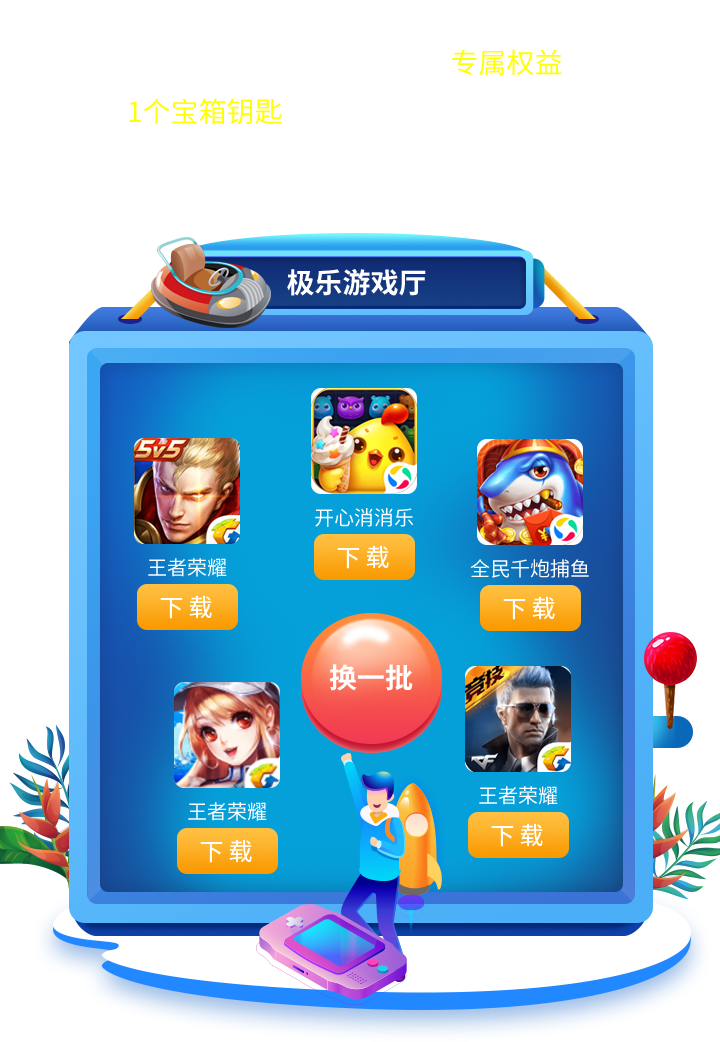
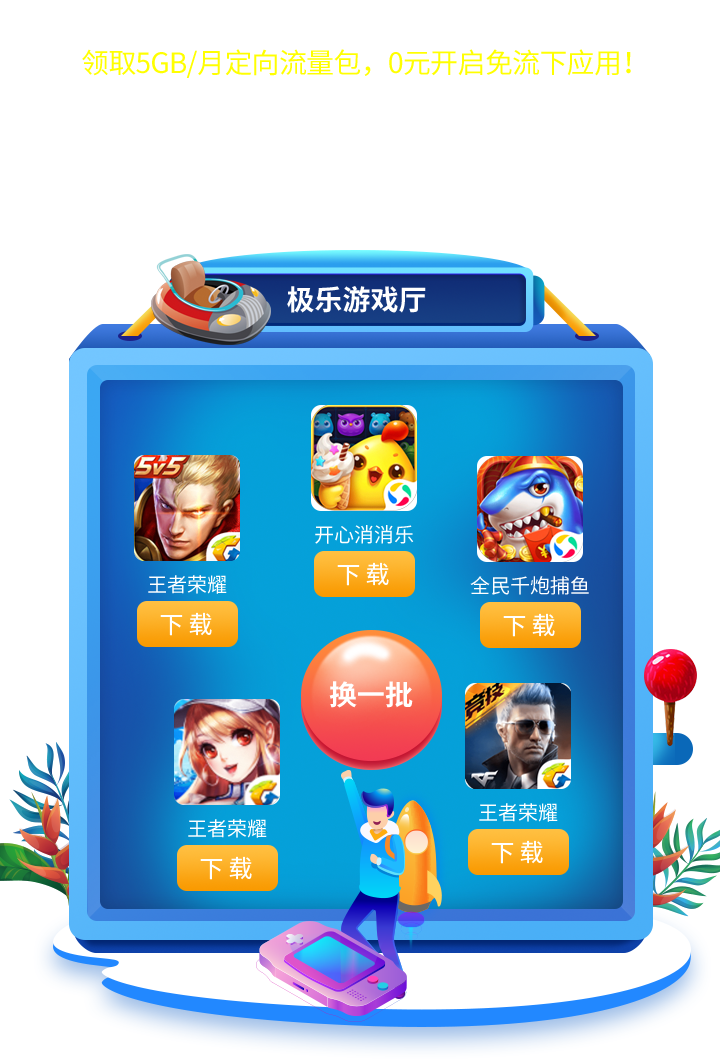
高保修改

diff --git a/src/index.html b/src/index.html
@@ -27,71 +27,15 @@
 			<img src="./assets/img/home-bg.png" class="banner">
 			<span class="lklq-btn">100把钥匙</span>
 		</div>
-		<div class="app-down-list-wrap">
-			<div class="list-1">
-				<div class="btn-baoxiang">开宝箱</div>
-			</div>
-			<div class="list-2">
-				<div class="app-box">
-					<div class="item info">
-						<img src="assets/img/app-icon.png" alt="" class="icon" />
-						<div class="deital">
-							<div class="title">QQ音乐开放权益</div>
-							<div class="sub">
-								QQ音乐
-							</div>
-						</div>
-					</div>
-					<div class="item btn">
-						领取
-					</div>
-				</div>
-			</div>
-			<div class="list-3">
-				<div class="app-box">
-					<div class="item info">
-						<img src="assets/img/app-icon.png" alt="" class="icon" />
-						<div class="deital">
-							<div class="title">QQ音乐开放权益</div>
-							<div class="sub">
-								QQ音乐
-							</div>
-						</div>
-					</div>
-					<div class="item btn">
-						领取
-					</div>
-				</div>
-			</div>
-			<div class="list-4">
-				<div class="app-box">
-					<div class="item info">
-						<img src="assets/img/app-icon.png" alt="" class="icon" />
-						<div class="deital">
-							<div class="title">QQ音乐开放权益</div>
-							<div class="sub">
-								QQ音乐
-							</div>
-						</div>
-					</div>
-					<div class="item btn">
-						领取
-					</div>
-				</div>
-			</div>
-			<div class="list-5">
-				<div class="more-power-btn"></div>
-			</div>
-		</div>
 		<div class="app-zone-wrap">
 			<div class="list-1">
+				<div class="baoxiang-btn">开宝箱</div>
 			</div>
 			<div class="list-2">
 				<div class="apps-wrap">
 					<div class="change-btn">
 						换一批
 					</div>
-					<div class="person"></div>
 					<div class="app-name-list-1 app-name">
 						<img src="assets/img/app-icon.png" class="icon">
 						<div class="name">

diff --git a/src/assets/styles/home.less b/src/assets/styles/home.less
@@ -242,9 +242,24 @@
     }
     .app-zone-wrap{
         .list-1{
+            position: relative;
             background: url(../img/app-zone-list-1.png)no-repeat;
             background-size: 100% 100%;
-            height: 1.63rem;
+            height: 2.02rem;
+            .baoxiang-btn{
+                position: absolute;
+                background: url(../img/baoxiang.png)no-repeat;
+                background-size: 100% 100%;
+                top:-0.8rem;
+                width: 2.81rem;
+                height: 1.24rem;
+                line-height: 1.3rem;
+                left:50%;
+                transform: translateX(-50%);
+                color: #fff;
+                text-align: center;
+                font-size: .42rem;
+            }
         }
         .list-2{
             background: url(../img/app-zone-bg-1.png)no-repeat;
@@ -266,16 +281,6 @@
                 font-size: .28rem;
                 text-align: center;
                 line-height: 1.4rem;
-            }
-            .person{
-                position: absolute;
-                background: url(../img/app-zone-person-1.png)no-repeat;
-                background-size: 100% 100%;
-                width: 1.96rem;
-                height: 2.55rem;
-                left:50%;
-                transform: translateX(-50%);
-                top:5.4rem;
             }
             .app-name{
                 position: absolute;
@@ -592,7 +597,7 @@
         .list-6{
             background: url(../img/app-zone-bg-6.png)no-repeat;
             background-size: 100% 100%;
-            height: 9.77rem;
+            height: 10.31rem;
             .apps-wrap{
                 position: relative;
                 top: .5rem;
